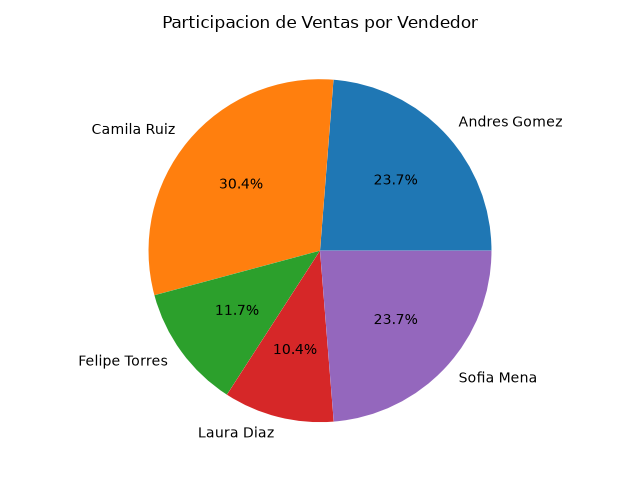
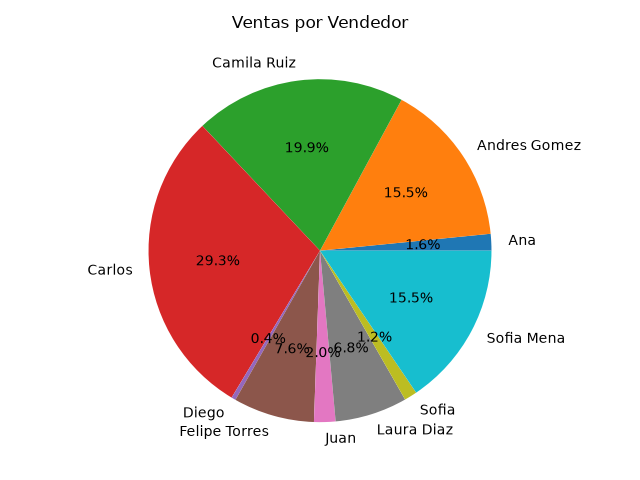
agregar sistema de automatización

diff --git a/bot.py b/bot.py
@@ -1,98 +1,85 @@
+import time
+import os
 import pandas as pd
 import glob
 import matplotlib.pyplot as plt
 from pathlib import Path
 
+# Configuración de carpetas
 carpeta_datos = Path('Datos')
 carpeta_resultados = Path('Resultados')
 carpeta_resultados.mkdir(exist_ok=True)
+carpeta_datos.mkdir(exist_ok=True)
 
-# --------------------------------------------
-# PARTE 1: Buscar y leer los archivos (YA VISTO)
-# --------------------------------------------
-archivos_csv = glob.glob(str(carpeta_datos / "sucursal_*.csv"))
-archivos_xlsx = glob.glob(str(carpeta_datos / "sucursal_*.xlsx"))
-lista_informes = []
+# Registro de archivos iniciales
+archivos_vistos = set(os.listdir(carpeta_datos))
 
-for archivo in archivos_csv:
-    df = pd.read_csv(archivo)
-    lista_informes.append(df)
-    print(f"Leído: {archivo} - {len(df)} filas")
+def procesar_todo(archivo_nuevo):
+    """
+    Lee archivos, estandariza columnas, consolida, genera gráficos
+    y guarda un log del proceso automatizado.
+    """
+    archivos_csv = glob.glob(str(carpeta_datos / "sucursal_*.csv"))
+    archivos_xlsx = glob.glob(str(carpeta_datos / "sucursal_*.xlsx"))
+    lista_informes = []
+    
+    for archivo in archivos_csv:
+        lista_informes.append(pd.read_csv(archivo))
+    for archivo in archivos_xlsx:
+        lista_informes.append(pd.read_excel(archivo, engine='openpyxl'))
+        
+    # Estandarización de columnas (Tu código integrado)
+    for i, df in enumerate(lista_informes):
+        if 'Fecha_Venta' in df.columns:
+            lista_informes[i] = df.rename(columns={
+                'Fecha_Venta': 'fecha',
+                'Producto': 'producto',
+                'Categoria': 'categoria',
+                'Cant': 'cantidad',
+                'Valor_Unitario': 'precio_unitario',
+                'Vendedor': 'vendedor',
+                'Pago': 'metodo_pago',
+            })
+    
+    # Consolidación y limpieza
+    df_consolidado = pd.concat(lista_informes, ignore_index=True)
+    df_consolidado = df_consolidado.drop_duplicates()
+    df_consolidado.to_excel(carpeta_resultados / "consolidado_limpio.xlsx", index=False)
+    
+    # Gráfico 1: Ventas por categoría
+    ventas_categoria = df_consolidado.groupby('categoria')['precio_unitario'].sum()
+    ventas_categoria.plot(kind='bar', title='Ventas por Categoría')
+    plt.ticklabel_format(style='plain', axis='y')
+    plt.ylabel('Ventas totales ($)')
+    plt.tight_layout()
+    plt.savefig(carpeta_resultados / "grafico_categoria.png")
+    plt.close()
+    
+    # Gráfico 2: Participación por vendedor
+    ventas_vendedor = df_consolidado.groupby('vendedor')['precio_unitario'].sum()
+    ventas_vendedor.plot(kind='pie', autopct='%1.1f%%', title='Ventas por Vendedor')
+    plt.ylabel('')
+    plt.tight_layout()
+    plt.savefig(carpeta_resultados / "grafico_ventas_vendedor.png")
+    plt.close()
+    
+    # Registro del Log
+    with open(carpeta_resultados / "log_automatizacion.txt", "a") as f:
+        f.write(f"Proceso ejecutado: {pd.Timestamp.now()}\n")
+        f.write(f"Archivo(s) detectado(s): {archivo_nuevo}\n")
+        f.write(f"Total de registros procesados: {len(df_consolidado)}\n")
+        f.write("---\n")
+    
+    print(f"Proceso completado - log y gráficos actualizados en {carpeta_resultados}/")
 
-for archivo in archivos_xlsx:
-    df = pd.read_excel(archivo, engine='openpyxl')
-    lista_informes.append(df)
-    print(f"Leído: {archivo} - {len(df)} filas")
-
-# --------------------------------------------
-# PARTE 2: Consolidar (YA VISTO - primer intento)
-# Aquí van a ver el problema de columnas distintas
-# --------------------------------------------
-df_consolidado = pd.concat(lista_informes, ignore_index=True)
-print(df_consolidado.columns)
-# En este punto probablemente veas más de 7 columnas
-
-# --------------------------------------------
-# PARTE 3: Renombrar columnas (COMPLETEN USTEDES)
-# Identifiquen cuál archivo tiene columnas distintas
-# --------------------------------------------
-for i, df in enumerate(lista_informes):
-    if 'Fecha_Venta' in df.columns:
-        lista_informes[i] = df.rename(columns={
-            'Fecha_Venta': 'fecha',
-            'Producto': 'producto',
-            'Categoria': 'categoria',
-            'Cant': 'cantidad',
-            'Valor_Unitario': 'precio_unitario',
-            'Vendedor': 'vendedor',
-            'Pago': 'metodo_pago',
-        })
-
-df_consolidado = pd.concat(lista_informes, ignore_index=True)
-print(df_consolidado.columns)  # debería mostrar exactamente 7
-
-# --------------------------------------------
-# PARTE 4: Limpieza de datos
-# --------------------------------------------
-filas_antes = len(df_consolidado)
-df_consolidado = df_consolidado.drop_duplicates()
-print(f"Filas antes: {filas_antes} - después: {len(df_consolidado)}")
-
-print(df_consolidado.isnull().sum())
-# completar: decidan qué valor tiene sentido para cada columna con nulos
-
-# --------------------------------------------
-# PARTE 5: Guardar el resultado
-# --------------------------------------------
-df_consolidado.to_excel(carpeta_resultados / "consolidado_limpio.xlsx", index=False)
-print("Archivo guardado")
-
-# --------------------------------------------
-# PARTE 6: Análisis y visualización (NUEVO - hoy)
-# --------------------------------------------
-
-# 6a. EJEMPLO RESUELTO: ventas por categoría (gráfico de barras)
-ventas_por_categoria = df_consolidado.groupby('categoria')['precio_unitario'].sum()  # Agrupa y suma por categoría
-ventas_por_categoria.plot(kind='bar', title='Ventas por Categoria')  # Crea el gráfico de barras
-plt.ticklabel_format(style='plain', axis='y')  # Evita notación científica (1e6)
-plt.ylabel('Ventas totales ($)')
-plt.xlabel('Categoría')
-plt.xticks(rotation=0)
-plt.tight_layout()
-plt.savefig(carpeta_resultados / "grafico_ventas_categoria.png")
-plt.show()
-
-# 6b. EJEMPLO RESUELTO: participación por vendedor (gráfico de torta)
-ventas_por_vendedor = df_consolidado.groupby('vendedor')['precio_unitario'].sum()  # Agrupa y suma por vendedor
-ventas_por_vendedor.plot(kind='pie', autopct='%1.1f%%', title='Participacion de Ventas por Vendedor')  # Grafico de torta con porcentajes
-plt.ylabel('')  # No aplica en gráficos de torta
-plt.tight_layout()
-plt.savefig(carpeta_resultados / "grafico_ventas_vendedor.png")
-plt.show()
-
-# 6c. AHORA USTEDES: ¿cuál es el producto que aparece más veces 
-# en las ventas? Investiguen la función value_counts() y 
-# apliquenla a la columna 'producto'
-productos_mas_vendidos = df_consolidado['producto'].value_counts()
-print('\nProductos con más apariciones en las ventas:')
-print(productos_mas_vendidos.head())
+print("Monitoreando carpeta de datos... (Ctrl+C para detener)")
+while True:
+    archivos_actuales = set(os.listdir(carpeta_datos))
+    archivos_nuevos = archivos_actuales - archivos_vistos
+    
+    if archivos_nuevos:
+        print(f"\nNuevo archivo detectado: {archivos_nuevos}")
+        procesar_todo(archivos_nuevos)
+        archivos_vistos = archivos_actuales
+    
+    time.sleep(5)

diff --git a/README.md b/README.md
@@ -46,6 +46,36 @@ El dueño debería priorizar la categoría **Electrónica**, porque es la que pr
 - Categorías: Electrónica y Ropa.
 - Período de datos: junio de 2026.
 
+## Sistema de automatización
+
+El proyecto ahora incluye un sistema de automatización que **vigila la carpeta `Datos/`** en busca de nuevos informes de sucursales. La idea es que ya no tengas que borrar ni mover nada: basta con soltar el archivo nuevo en la carpeta y el programa hace todo por sí solo.
+
+### ¿Qué hace el sistema?
+
+Cada vez que se detecta un archivo nuevo, el programa:
+
+1. **Relee todos los informes** de la carpeta `Datos/` (tanto `.csv` como `.xlsx`).
+2. **Estandariza las columnas**, para que todos los reportes tengan el mismo formato (fecha, producto, categoria, cantidad, precio_unitario, vendedor, metodo_pago).
+3. **Consolida y limpia** los datos (une todo y elimina duplicados).
+4. **Actualiza el archivo** `Resultados/consolidado_limpio.xlsx`.
+5. **Regenera los gráficos** `grafico_categoria.png` y `grafico_ventas_vendedor.png`.
+6. **Agrega una entrada al log** `Resultados/log_automatizacion.txt` registrando la fecha, el archivo detectado y el total de registros procesados.
+
+### ¿Cómo detecta los archivos nuevos?
+
+El programa lleva un registro de los archivos que ya vio (`archivos_vistos`). En un bucle, compara esa lista con lo que hay actualmente en `Datos/`. Cuando aparecen archivos que no estaban antes, se dispara la automatización y se actualiza la lista de archivos conocidos. El bucle repite la revisión cada **5 segundos**.
+
+### ¿Qué pasa cuando encuentra uno?
+
+Se imprime en consola un mensaje tipo:
+
+```text
+Nuevo archivo detectado: {'sucursal_medellin_reporte2.csv'}
+Proceso completado - log y gráficos actualizados en Resultados/
+```
+
+Y de forma inmediata se actualizan el consolidado, los gráficos y el log.
+
 ## Ejecución
 
 Instala las dependencias:
@@ -59,5 +89,7 @@ Ejecuta el programa desde la carpeta principal del proyecto:
 ```powershell
 python bot.py
 ```
+
+El programa queda **vigilando** la carpeta `Datos/`. Para probarlo, arrastra y suelta un informe nuevo (por ejemplo `sucursal_cali_reporte2.csv`) dentro de `Datos/` y observa cómo se actualizan los resultados por sí solos. Se detiene con `Ctrl+C`.
 
 Los resultados se guardan en la carpeta `Resultados/`.
